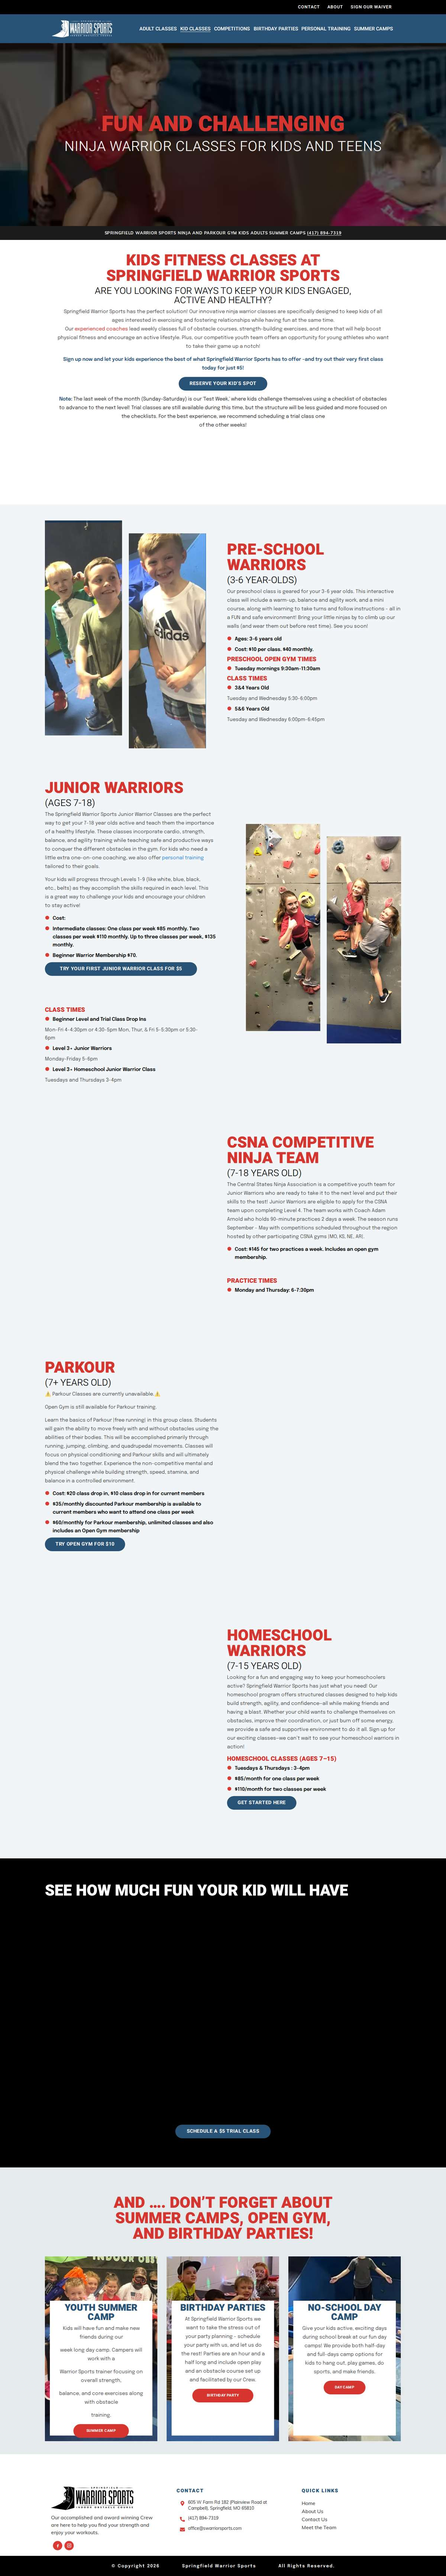
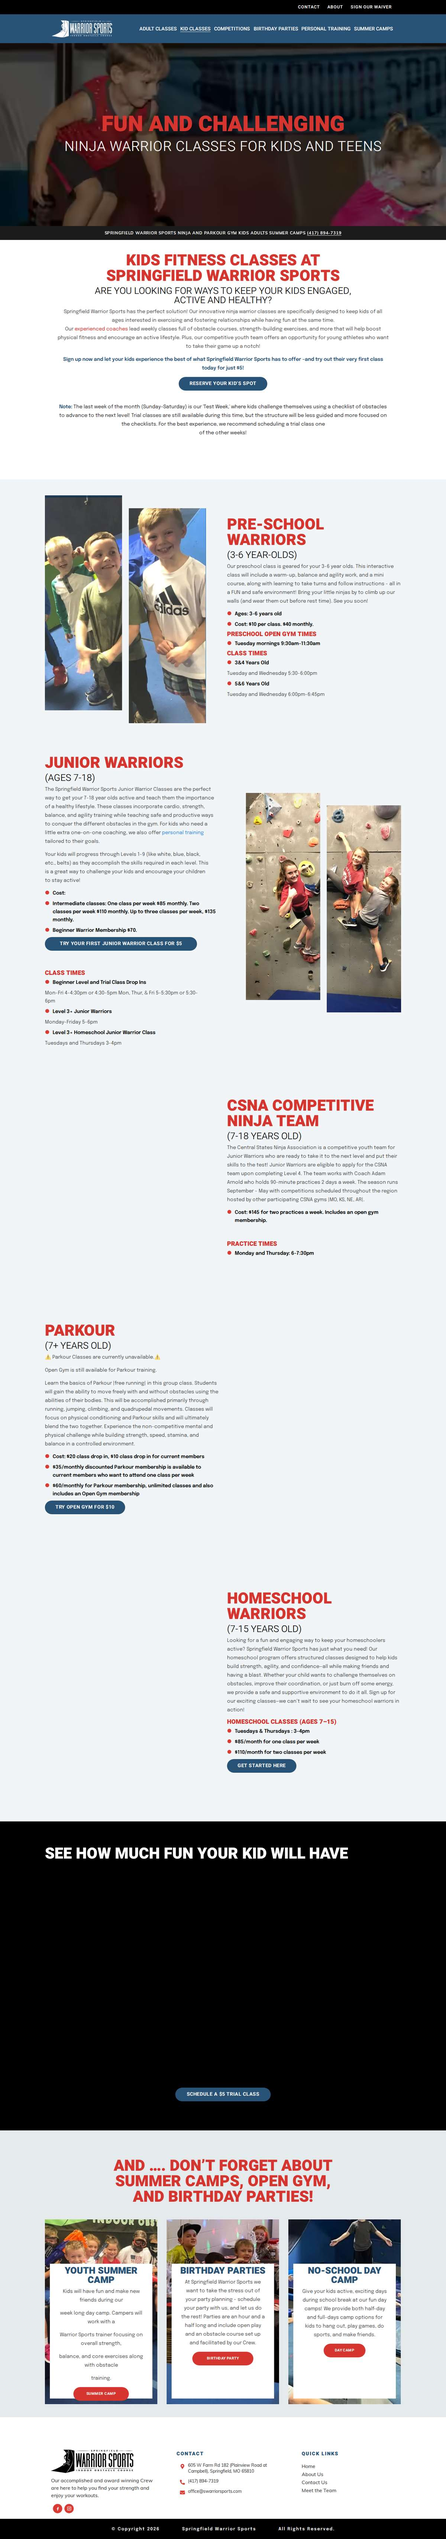
Match the round 12 bands and gaps with live spacing.
Adopt-a-Highway stays white, the James River wash is the live grey, and the phone Everyday Warrior photo is 350 by 312. Home at 390 matches on gate v2.13.

diff --git a/docs/qa/layout-report.md b/docs/qa/layout-report.md
@@ -1,5 +1,5 @@
 # Layout comparison: live vs build
-Total differences: 8227
+Total differences: 8211
 
 ## about @ 1920px: 2 difference(s)
 - text "We had our son’s 10th birthday": 5 line(s), live 4
@@ -1021,12 +1021,10 @@ Total differences: 8227
 - band rgb(255, 255, 255) at y=2047 (610px tall, right margin) is in the build but not on live
 - band rgb(255, 255, 255) at y=4178 (328px tall, right margin) is in the build but not on live
 
-## home @ 1920px: 5 difference(s)
+## home @ 1920px: 3 difference(s)
 - text "We believe in results and that": 3 line(s), live 2
 - text "We had our son’s 10th birthday": 5 line(s), live 4
 - text "My daughter started training h": 7 line(s), live 6
-- gap between "KIDS ● ADULTS ● SUMMER CAMPS ●" and "GET READY TO": 62px, live 112px
-- gap between "(see below for our class hours" and "SPRINGFIELD'S BEST OBSTACLE TR": 216px, live 166px
 
 ## homeschool-sports-and-classes-springfield-mo @ 1920px: 104 difference(s)
 - page height 2622px, live 3027px
@@ -1134,10 +1132,7 @@ Total differences: 8227
 - photo hero: brightness 100, live 32 (overlay or exposure differs)
 - photo hero: looks different from live (pixel difference 71)
 
-## kids-classes @ 1920px: 3 difference(s)
-- gap between "Sign up now and let your kids " and "Note: The last week of the mon": 72px, live 111px
-- gap between "Note: The last week of the mon" and "PRE-SCHOOL WARRIORS": 363px, live 257px
-- gap between "Beginner Warrior Membership $7" and "CLASS TIMES": 152px, live 114px
+## kids-classes @ 1920px: matches
 
 ## laser-tag @ 1920px: 184 difference(s)
 - page height 3551px, live 4056px
@@ -4293,12 +4288,10 @@ Total differences: 8227
 - band rgb(255, 255, 255) at y=2047 (610px tall, right margin) is in the build but not on live
 - band rgb(255, 255, 255) at y=4178 (328px tall, right margin) is in the build but not on live
 
-## home @ 1280px: 5 difference(s)
+## home @ 1280px: 3 difference(s)
 - text "We believe in results and that": 3 line(s), live 2
 - text "We had our son’s 10th birthday": 5 line(s), live 4
 - text "My daughter started training h": 7 line(s), live 6
-- gap between "KIDS ● ADULTS ● SUMMER CAMPS ●" and "GET READY TO": 62px, live 112px
-- gap between "(see below for our class hours" and "SPRINGFIELD'S BEST OBSTACLE TR": 216px, live 166px
 
 ## homeschool-sports-and-classes-springfield-mo @ 1280px: 104 difference(s)
 - page height 2622px, live 3027px
@@ -4406,10 +4399,7 @@ Total differences: 8227
 - photo hero: brightness 96, live 38 (overlay or exposure differs)
 - photo hero: looks different from live (pixel difference 63)
 
-## kids-classes @ 1280px: 3 difference(s)
-- gap between "Sign up now and let your kids " and "Note: The last week of the mon": 72px, live 111px
-- gap between "Note: The last week of the mon" and "PRE-SCHOOL WARRIORS": 363px, live 257px
-- gap between "Beginner Warrior Membership $7" and "CLASS TIMES": 152px, live 114px
+## kids-classes @ 1280px: matches
 
 ## laser-tag @ 1280px: 184 difference(s)
 - page height 3551px, live 4056px
@@ -6547,11 +6537,8 @@ Total differences: 8227
 - band rgb(255, 255, 255) at y=1671 (1868px tall on live, right margin) not found in build
 - band rgb(255, 255, 255) at y=2563 (328px tall, right margin) is in the build but not on live
 
-## about @ 390px: 4 difference(s)
+## about @ 390px: 1 difference(s)
 - text "In 2016 we had the unique oppo": 19 line(s), live 18
-- gap between "Springfield Warrior Sports was" and "CURIOUS ABOUT THE COLORS OF OU": 276px, live 370px
-- gap between "Springfield Warrior Sports loo" and "CLIENT TESTIMONIALS": 216px, live 161px
-- gap between "We had our son’s 10th birthday" and "- JENNIFER L.": 62px, live 0px
 
 ## best-gyms-in-springfield @ 390px: 199 difference(s)
 - page height 8081px, live 11526px
@@ -7083,9 +7070,7 @@ Total differences: 8227
 - band rgb(255, 255, 255) at y=5341 (1936px tall on live, left margin) not found in build
 - band rgb(255, 255, 255) at y=2753 (3521px tall, left margin) is in the build but not on live
 
-## home @ 390px: 2 difference(s)
-- gap between "(see below for our class hours" and "SPRINGFIELD'S BEST OBSTACLE TR": 238px, live 136px
-- gap between "We had our son’s 10th birthday" and "- JENNIFER L.": 62px, live 0px
+## home @ 390px: matches
 
 ## homeschool-sports-and-classes-springfield-mo @ 390px: 101 difference(s)
 - page height 3198px, live 4193px
@@ -7190,11 +7175,10 @@ Total differences: 8227
 - band rgb(255, 255, 255) at y=599 (left margin): 525px tall, live 675px
 - band rgb(255, 255, 255) at y=2359 (667px tall, left margin) is in the build but not on live
 
-## kids-classes @ 390px: 5 difference(s)
+## kids-classes @ 390px: 4 difference(s)
 - text "Our preschool class is geared ": 9 line(s), live 8
 - text "Learn the basics of Parkour |f": 14 line(s), live 13
 - gap between "NINJA WARRIOR CLASSES FOR KIDS" and "KIDS FITNESS CLASSES AT SPRING": 148px, live 213px
-- gap between "Beginner Warrior Membership $7" and "CLASS TIMES": 171px, live 133px
 - background behind "FUN AND CHALLENGING": rgb(20, 20, 24), live rgb(23, 40, 50)
 
 ## laser-tag @ 390px: 160 difference(s)
@@ -8365,20 +8349,23 @@ Total differences: 8227
 - band rgb(255, 255, 255) at y=600 (left margin): 318px tall, live 413px
 - band rgb(255, 255, 255) at y=1579 (2566px tall on live, left margin) not found in build
 - band rgb(255, 255, 255) at y=2722 (667px tall, left margin) is in the build but not on live
+
 ## Notes
 
-Gate v2.13, round 11. Model: Grok 4.7. The live map, the scripts, the tolerances, and PIXEL_TOL were not edited. No allow entries were added. `fc34a0e` landed before this could be pushed. A band's color is the median pixel, and two runs merge only when their medians are within 4.
+Gate v2.13, round 12. Model: Grok 4.7. The live map, the scripts, the tolerances, and PIXEL_TOL were not edited. No allow entries were added. A band's color is the median pixel, and two runs merge only when their medians are within 4. The gap check does not count the trust bar when that bar sits between the two blocks.
 
-On gate v2.12, commit 666f552 was 8,038 differences. Home 4/4/0, about 4/4/2, kids-classes 0/0/3. That about count included `band rgb(250, 254, 255) at y=3677 (138px tall)` at 1920 and 1280, and `band rgb(250, 254, 255) at y=4926 (66px tall)` at 390. After the coaches photo, the partner-band spacing, the partnerships join, the phone bullet list, the About intro padding, and the live partnerships gradient, those screenshots on v2.12 are 8,031. Home 3/3/0, about 2/2/1, kids-classes 0/0/3. Those three strip lines are gone.
+Before is the previous v2.13 measurement, 8,227 differences. Home was 5/5/2, about was 2/2/4, and kids-classes was 3/3/5. After is 8,211. Home is 3/3/0, about is 2/2/1, and kids-classes is 0/0/4. No other page rose. The Vercel preview is recorded after this commit is deployed.
 
-On this gate the same pages are home 5/5/2, about 2/2/4, kids-classes 3/3/5, and the site total is 8,227. The Vercel preview of `b8ef5ef` measures the same on the three pages. About at 1920 and 1280 is the two testimonial wraps. The partnerships grey is rgb(242, 245, 246) and runs into the Perseverance navy. The James River wash is the same grey from the end of that navy to the Community Murph row.
+Adopt-a-Highway is white. At 1920 the left margin is white from y=1659 for 701px, then the partnerships grey rgb(242, 245, 246). The grey starts at Community Partnerships. The section after Perseverance is that same grey for 1,465px, then white for 789px. Live's grey there is 1,464px and the white is 796px. The wash uses live's `linear-gradient(rgba(229, 234, 237, 0.5), rgba(229, 234, 237, 0.5))`, with padding-top 849px from 800px up and 412px below that.
 
-The "BE AN EVERYDAY WARRIOR!" photo uses live's CSS: `background-size: contain`, `background-position: 100% 0`, `min-height: 632px`. The right coach's arm is fully visible at 1920 and 1280. At 390 the photo is 310 by 277. Live's phone image is 350 by 312. Matching that box made the white band at y=8160 1,035px against live's 905px, so the smaller photo stays. `.partner-band` has no box-shadow.
+The phone Everyday Warrior photo is the live image at 350 by 312, x=20, `width: 100%`, `margin-top: 40px`. The white run under the navy band is 897px. Live's is 906px. The desktop photo stays `background-size: contain`, `background-position: 100% 0`, `min-height: 605px`.
 
-The phone bullet list uses a 41px line height, no gap, and 20px of section padding. The items step by 42px (live 41px). Home at 390 has no band line.
+The phone hours rows are 38px, which is live's clock icon (18px plus 10px of padding on each side). The program cards use a 10px gap and 50px of bottom padding, so the space from a button to the next photo is 60px and the navy continues 100px past the last button. The buttons use live's 12px type, 2px letter-spacing, 19px line height, and 10px padding. Two-line buttons are 58px and the one-line buttons are 39px. The button sits 36px under its paragraph. Home at 390 matches.
 
-The About intro uses live's padding: 90px above the paragraph and 90px of white before the grey flag band from 800px up, and 80px and 80px below that. The "CURIOUS ABOUT THE COLORS" heading is at y=1261 against live's 1262 on desktop, and at y=1601 against live's 1610 at 390.
+The phone quote name sits against the quote: the shell's bottom padding is 0, and the quote paragraph's margin and padding are 0. Kids Classes at 800px and up uses the live gaps: the note line has margin-top 39px, the intro's margin-bottom is 93px, and CLASS TIMES has margin-top 62px. Below 800px, CLASS TIMES has margin-top 81px. The About phone intro keeps 80px of padding and 80px before the flag band, and the testimonials section's margin-top is 35px.
 
-The partnerships band and the James River wash use live's background, `linear-gradient(rgba(229, 234, 237, 0.5), rgba(229, 234, 237, 0.5))`. The partnerships join is padding on the grey, 138px from 800px up and 70px below. The James River space above the paragraph was a 939px margin on desktop and a 412px margin on the phone, so it was white. Live's section margin is 0 and that area is the grey. The space is now padding on the wash. A 42px white line from the section's own padding sits above it, under the gate's 60px minimum. The phone-width space under the footer for the sticky Call bar is unchanged.
+The lines still open are wraps, at live's size, width, and letter-spacing. Home at 1920 and 1280: "We believe" is 3 lines against live's 2, and the two testimonials are 5 against 4 and 7 against 6. About at 1920 and 1280 is those same two testimonials. About at 390: the James River paragraph is 19 lines against live's 18. Kids Classes at 390: the preschool paragraph is 9 lines against 8, and the parkour paragraph is 14 against 13.
 
-The gap lines are the new v2.13 check. Home's bullet text to "GET READY TO" is 107px against live's 112px. The trust-bar text is 45px of that span, so the check reports 62px. About at 390, the intro paragraph to the colors heading is 276px against live's 370px because the paragraph starts at y=765 against live's 680, while the heading is already at live's y. The white before the flag band is 80px against live's 81px. Those headings were not moved. Kids Classes at 390 still reads the background behind "FUN AND CHALLENGING" as rgb(20, 20, 24) against live rgb(23, 40, 50), on the hero photo, which has no overlay. The Memorial Day sentence stays in the Community Murph paragraph. Paragraph links stay rgb(219, 58, 52) with no underline.
+Kids Classes at 390 also reports `gap between "NINJA WARRIOR CLASSES FOR KIDS" and "KIDS FITNESS CLASSES AT SPRING": 148px, live 213px`. The hero kicker ends at y=458 and the next heading is at y=692, so the visible span is 234px against live's 213px. The trust bar is 86px of that span, and the gap check subtracts it. Live has no trust bar between those headings. Adding the 65px the check asks for would put the heading spacing at 374px against live's 288px. The heading stays where it is. The background behind "FUN AND CHALLENGING" is rgb(20, 20, 24) against live rgb(23, 40, 50). That sample is on the hero photo, and the page has no overlay, which is live's CSS.
+
+The Memorial Day sentence stays in the Community Murph paragraph. Paragraph links stay rgb(219, 58, 52) with no underline.

diff --git a/docs/qa/build-report.md b/docs/qa/build-report.md
@@ -563,6 +563,30 @@ Lighthouse mobile on the local preview, after this batch. Order is performance /
 | About | 97 / 92 / 100 / 100 |
 | Kids classes | 98 / 92 / 100 / 100 |
 
+## Layout parity gate v2.13, round 12
+
+Model: Grok 4.7. Gate v2.13 checks the gap between every consecutive heading and text block, and it does not count the build-only trust bar when that bar sits between the two blocks. A band's color is the median pixel, and two runs merge only when those medians are within 4. The live map, the scripts, the tolerances, and `PIXEL_TOL` were not edited. The report is `docs/qa/layout-report.md`. No allow entries were added.
+
+Before is the previous v2.13 measurement, 8,227 differences. Home was 5/5/2, about was 2/2/4, and kids-classes was 3/3/5. After is 8,211. Home is 3/3/0, about is 2/2/1, and kids-classes is 0/0/4 (1920/1280/390). No other page rose. The Vercel preview is recorded after this commit is deployed.
+
+Adopt-a-Highway is white. At 1920 the left margin is white from y=1659 for 701px, then the partnerships grey. The section after Perseverance is that grey for 1,465px, then white for 789px. Live is 1,464px of grey and 796px of white. The wash is live's `linear-gradient(rgba(229, 234, 237, 0.5), rgba(229, 234, 237, 0.5))`, with padding-top 849px from 800px up and 412px below that.
+
+The phone Everyday Warrior photo is 350 by 312 at x=20, `width: 100%`, `margin-top: 40px`. The white run under the navy band is 897px against live's 906px. From 800px up the photo stays `contain` at `100% 0`, with `min-height: 605px`.
+
+The phone hours rows are 38px, live's clock icon with 10px of padding on each side. Program cards use a 10px gap and 50px of bottom padding, so a button sits 60px above the next photo and the navy continues 100px past the last button. Buttons use live's 2px letter-spacing, 19px line height, and 10px padding. Home at 390 matches.
+
+The phone quote name sits against the quote. Kids Classes at 800px and up uses margin-top 39px on the note, margin-bottom 93px on the intro, and margin-top 62px on CLASS TIMES. Below 800px, CLASS TIMES has margin-top 81px. The About phone testimonials section has margin-top 35px.
+
+The lines still open are wraps, at live's size, width, and letter-spacing. Kids Classes at 390 also reports the hero subtitle to "KIDS FITNESS CLASSES" as 148px against live's 213px. The visible span is 234px against live's 213px. The trust bar is 86px of that span, and the gap check subtracts it. Live has no trust bar there. Adding the 65px the check asks for would put the heading spacing at 374px against live's 288px, so the heading stays. The background behind "FUN AND CHALLENGING" is rgb(20, 20, 24) against live rgb(23, 40, 50), on the hero photo, which has no overlay. The Memorial Day sentence stays in the Community Murph paragraph. Paragraph links stay the live red, `rgb(219, 58, 52)`, with no underline.
+
+Lighthouse mobile on the local preview, after this batch. Order is performance / accessibility / best practices / SEO. About and kids accessibility stay at 92 because the live red measures 4.49:1 on white. That question is with Josh. The red stays.
+
+| Page | Score |
+|---|---|
+| Home | 99 / 100 / 100 / 100 |
+| About | 98 / 92 / 100 / 100 |
+| Kids classes | 98 / 92 / 100 / 100 |
+
 ## Open questions
 
 - Where GF18 should live, if it should be a page at all.
